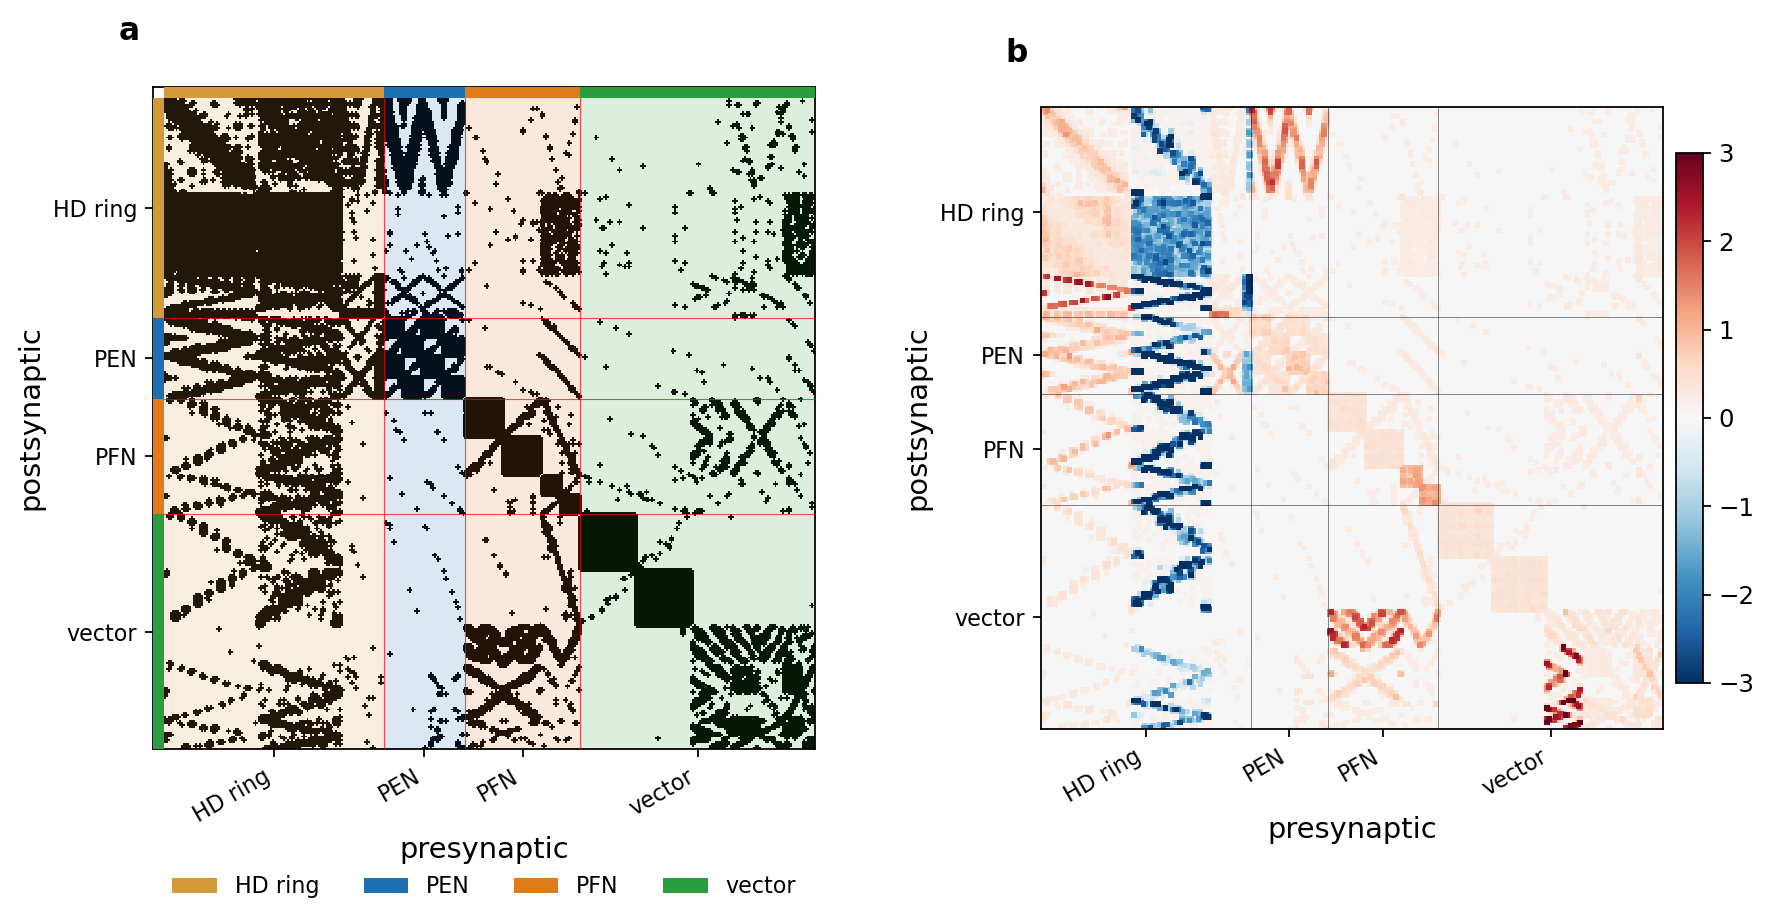
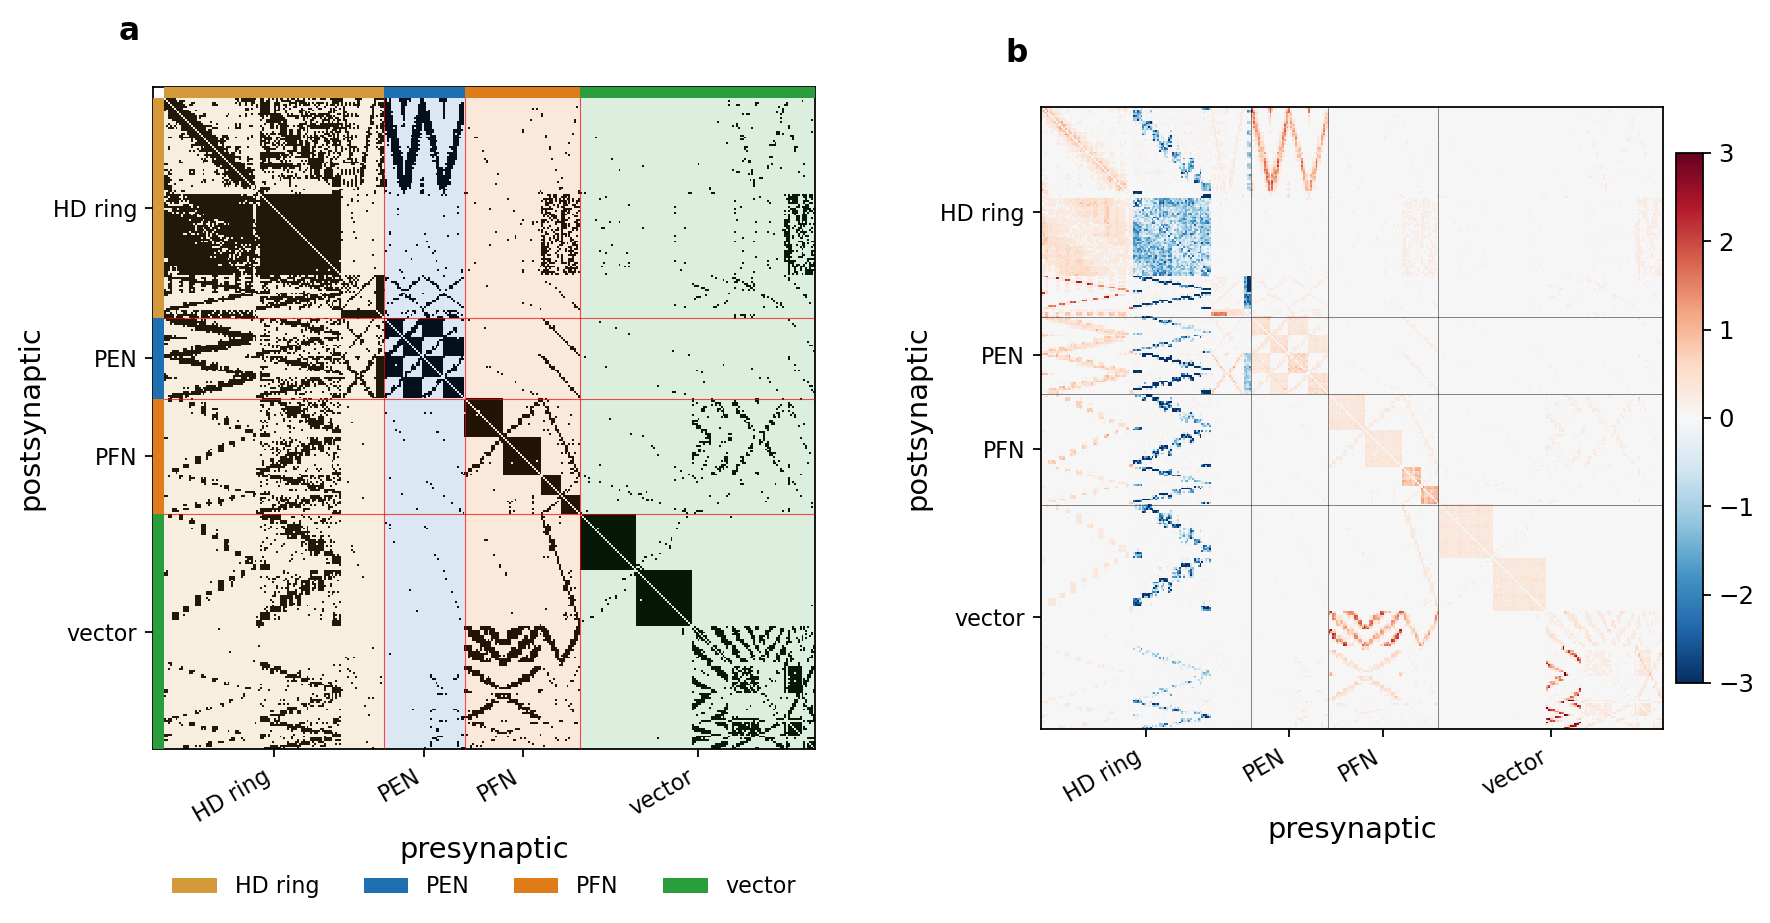
drosophila CX: proprioceptive sensory/efference angular gate (pen_propriocep)
Companion of the zebrafish pen_artr_ptipn1_propriocep experiment, with no new
connectome: the two existing PEN subtypes are the two angular ports.

- drosophila_cx_task_rnn / _gnn: add velocity_gate 'pen_propriocep' (sensory
  ω → PEN_a, efference ω_proprio → PEN_b, v_fwd → PFN, cue columns free) and
  'pen_propriocep_swap' (PEN_a/PEN_b roles reversed — the control). Both reuse
  the pen_pfn subpop/scalar setup and require drosophila_cx_338_v1.
- _TT_DIMS: on the proprioceptive gate the angular drive splits into two input
  columns, so ['rotation','translation'] derives n_input=5 (the 5-channel
  [ω, v_fwd, ω_proprio, cos0, sin0] layout) instead of 4 — mirrors the zebrafish
  propriocep handling. Without this the 5-ch stimulus errored at the gate.
- config: add 'pen_propriocep' / 'pen_propriocep_swap' to the velocity_gate
  Literal.

Also in this commit:
- plot_cx.plot_gnn_dashboard: fix panel e on the GNN dashboard (use
  data["net"], not an undefined `net`) so the EPG-ring phase-sorted kinograph
  renders for the fly instead of crashing the dashboard step.
- fig_connectome_summary: render each synapse as a square (box maximum_filter)
  instead of binary_dilation's 4-connected cross, and add a --dilate arg
  (default 0 = one pixel per synapse) so panels a/b match and the 338-cell
  matrix dots are not oversized; regenerated the figure.

diff --git a/src/connectome_gnn/models/drosophila_cx_task_rnn.py b/src/connectome_gnn/models/drosophila_cx_task_rnn.py
@@ -159,13 +159,28 @@ class DrosophilaCxTaskRNN(nn.Module):
         _RECOGNISED = ("rotation", "translation", "position_2d", "rotation_vfwd")
         _tt_raw = list(getattr(config.training, "task_targets", None) or [])
         _tt_key = tuple(t for t in _RECOGNISED if t in _tt_raw)
-        _TT_DIMS = {
-            ("rotation",):                (3, 2),
-            ("rotation_vfwd",):           (4, 2),
-            ("rotation", "translation"):  (4, 3),
-            ("position_2d",):             (4, 4),
-            ("translation",):             (1, 1),
-        }
+        # On the proprioceptive gate the angular drive is split into two
+        # independent input columns (sensory ω and efference ω_proprio), so the
+        # on-disk stimulus is the 5-channel [ω, v_fwd, ω_proprio, cos0, sin0]
+        # layout and any rotation-bearing task gains one extra input channel
+        # (mirrors the zebrafish pen_artr_ptipn1_propriocep gate).
+        _is_propriocep_split = str(getattr(gm, "velocity_gate", "none")).lower() \
+            in ("pen_propriocep", "pen_propriocep_swap")
+        if _is_propriocep_split:
+            _TT_DIMS = {
+                ("rotation",):                (4, 2),
+                ("translation",):             (2, 1),
+                ("rotation", "translation"):  (5, 3),
+                ("position_2d",):             (5, 4),
+            }
+        else:
+            _TT_DIMS = {
+                ("rotation",):                (3, 2),
+                ("rotation_vfwd",):           (4, 2),
+                ("rotation", "translation"):  (4, 3),
+                ("position_2d",):             (4, 4),
+                ("translation",):             (1, 1),
+            }
         _auto_in, _auto_out = _TT_DIMS.get(_tt_key, (3, 2))  # default = rotation
         self.n_input = int(getattr(gm, "n_input", 0)) or _auto_in
         self.n_output = int(getattr(gm, "n_output", 0)) or _auto_out
@@ -293,14 +308,18 @@ class DrosophilaCxTaskRNN(nn.Module):
             self.v_pena_r = nn.Parameter(torch.tensor(-0.01))
             self.v_penb_l = nn.Parameter(torch.tensor(0.01))
             self.v_penb_r = nn.Parameter(torch.tensor(-0.01))
-        elif self.velocity_gate == "pen_pfn":
-            # Drosophila path-integration gate (companion of the zebrafish
-            # ``pen_artr_ptipn1``): ω → PEN (PENa/PENb L/R) on input col 0,
-            # v_fwd → PFN (PFNd/PFNv L/R) on input col 1. Requires a circuit
-            # that publishes both pen_subpop_ix and pfn_subpop_ix (i.e.
-            # drosophila_cx_338_v1). With n_input==3 (rotation only) the PFN
-            # column is unused; with n_input>=4 ([ω, v_fwd, cosθ0, sinθ0])
-            # v_fwd is anatomically routed to the PFN afferents.
+        elif self.velocity_gate in ("pen_pfn", "pen_propriocep",
+                                    "pen_propriocep_swap"):
+            # pen_pfn — Drosophila path-integration gate (companion of the
+            #   zebrafish ``pen_artr_ptipn1``): ω → PEN (PENa/PENb L/R) on
+            #   input col 0, v_fwd → PFN (PFNd/PFNv L/R) on input col 1.
+            # pen_propriocep — sensory/efference angular split (companion of
+            #   the zebrafish ``pen_artr_ptipn1_propriocep``): on the
+            #   5-channel [ω, v_fwd, ω_proprio, cos0, sin0] layout, sensory
+            #   ω → PEN_a, efference ω_proprio → PEN_b, v_fwd → PFN.
+            #   pen_propriocep_swap reverses the PEN_a/PEN_b roles (control).
+            # All require a circuit that publishes both pen_subpop_ix and
+            # pfn_subpop_ix (i.e. drosophila_cx_338_v1).
             pen_subpop = cx.get("pen_subpop_ix", {})
             pfn_subpop = cx.get("pfn_subpop_ix", {})
             pen_req = ("PENa_L", "PENa_R", "PENb_L", "PENb_R")
@@ -309,9 +328,9 @@ class DrosophilaCxTaskRNN(nn.Module):
                 + [k for k in pfn_req if len(pfn_subpop.get(k, [])) == 0]
             if missing:
                 raise ValueError(
-                    f"velocity_gate='pen_pfn' requires non-empty pen_subpop_ix "
-                    f"{pen_req} and pfn_subpop_ix {pfn_req}; missing/empty: "
-                    f"{missing}. Use circuit drosophila_cx_338_v1."
+                    f"velocity_gate={self.velocity_gate!r} requires non-empty "
+                    f"pen_subpop_ix {pen_req} and pfn_subpop_ix {pfn_req}; "
+                    f"missing/empty: {missing}. Use circuit drosophila_cx_338_v1."
                 )
             for key in pen_req:
                 ind = torch.zeros(N, dtype=torch.float32)
@@ -332,7 +351,8 @@ class DrosophilaCxTaskRNN(nn.Module):
         elif self.velocity_gate != "none":
             raise ValueError(
                 f"graph_model.velocity_gate must be 'none', 'pen_only', "
-                f"'pen_4scalar', or 'pen_pfn', got {self.velocity_gate!r}"
+                f"'pen_4scalar', 'pen_pfn', 'pen_propriocep', or "
+                f"'pen_propriocep_swap', got {self.velocity_gate!r}"
             )
 
         # --- Dynamics constants -----------------------------------------
@@ -501,6 +521,38 @@ class DrosophilaCxTaskRNN(nn.Module):
                 else:
                     # [ω, cosθ0, sinθ0]: ω→PEN col 0 only (PFN unused).
                     W = torch.cat([v_col_pen.unsqueeze(1), W[:, 1:]], dim=1)
+            elif self.velocity_gate in ("pen_propriocep", "pen_propriocep_swap"):
+                # 5-channel propriocep layout [ω, v_fwd, ω_proprio, cos0, sin0]:
+                # sensory ω→PEN_a, efference ω_proprio→PEN_b (swapped for
+                # pen_propriocep_swap), v_fwd→PFN, cue columns (3:) free.
+                v_col_pena = (
+                    self._pen_ind_pena_l * self.v_pena_l
+                    + self._pen_ind_pena_r * self.v_pena_r
+                )
+                v_col_penb = (
+                    self._pen_ind_penb_l * self.v_penb_l
+                    + self._pen_ind_penb_r * self.v_penb_r
+                )
+                v_col_pfn = (
+                    self._pfn_ind_pfnd_l * self.v_pfnd_l
+                    + self._pfn_ind_pfnd_r * self.v_pfnd_r
+                    + self._pfn_ind_pfnv_l * self.v_pfnv_l
+                    + self._pfn_ind_pfnv_r * self.v_pfnv_r
+                )
+                if self.velocity_gate == "pen_propriocep_swap":
+                    v_col_sensory, v_col_efference = v_col_penb, v_col_pena
+                else:
+                    v_col_sensory, v_col_efference = v_col_pena, v_col_penb
+                if self.n_input < 5:
+                    raise ValueError(
+                        f"velocity_gate={self.velocity_gate!r} expects the "
+                        f"5-channel propriocep stimulus "
+                        f"[ω, v_fwd, ω_proprio, cos0, sin0]; got "
+                        f"n_input={self.n_input}."
+                    )
+                W = torch.cat(
+                    [v_col_sensory.unsqueeze(1), v_col_pfn.unsqueeze(1),
+                     v_col_efference.unsqueeze(1), W[:, 3:]], dim=1)
             else:
                 mask = getattr(self, "_W_in_mask", None)
                 if mask is not None:

diff --git a/src/connectome_gnn/models/drosophila_cx_task_gnn.py b/src/connectome_gnn/models/drosophila_cx_task_gnn.py
@@ -141,13 +141,27 @@ class DrosophilaCxTaskGNN(nn.Module):
         _RECOGNISED = ("rotation", "translation", "position_2d", "rotation_vfwd")
         _tt_raw = list(getattr(config.training, "task_targets", None) or [])
         _tt_key = tuple(t for t in _RECOGNISED if t in _tt_raw)
-        _TT_DIMS = {
-            ("rotation",):                (3, 2),
-            ("rotation_vfwd",):           (4, 2),
-            ("rotation", "translation"):  (4, 3),
-            ("position_2d",):             (4, 4),
-            ("translation",):             (1, 1),
-        }
+        # Proprioceptive gate splits the angular drive into sensory ω and
+        # efference ω_proprio, so the on-disk stimulus is the 5-channel
+        # [ω, v_fwd, ω_proprio, cos0, sin0] layout (mirrors the RNN + the
+        # zebrafish pen_artr_ptipn1_propriocep gate).
+        _is_propriocep_split = str(getattr(gm, "velocity_gate", "none")).lower() \
+            in ("pen_propriocep", "pen_propriocep_swap")
+        if _is_propriocep_split:
+            _TT_DIMS = {
+                ("rotation",):                (4, 2),
+                ("translation",):             (2, 1),
+                ("rotation", "translation"):  (5, 3),
+                ("position_2d",):             (5, 4),
+            }
+        else:
+            _TT_DIMS = {
+                ("rotation",):                (3, 2),
+                ("rotation_vfwd",):           (4, 2),
+                ("rotation", "translation"):  (4, 3),
+                ("position_2d",):             (4, 4),
+                ("translation",):             (1, 1),
+            }
         _auto_in, _auto_out = _TT_DIMS.get(_tt_key, (3, 2))
         self.n_input = int(getattr(gm, "n_input", 0)) or _auto_in
         self.n_output = int(getattr(gm, "n_output", 0)) or _auto_out
@@ -235,10 +249,16 @@ class DrosophilaCxTaskGNN(nn.Module):
             self.v_pena_r = nn.Parameter(torch.tensor(-0.01))
             self.v_penb_l = nn.Parameter(torch.tensor(0.01))
             self.v_penb_r = nn.Parameter(torch.tensor(-0.01))
-        elif self.velocity_gate == "pen_pfn":
-            # Path-integration gate (companion of zebrafish pen_artr_ptipn1):
-            # ω → PEN col 0, v_fwd → PFN col 1. Requires drosophila_cx_338_v1
-            # (publishes pfn_subpop_ix). PFN column unused when n_input==3.
+        elif self.velocity_gate in ("pen_pfn", "pen_propriocep",
+                                    "pen_propriocep_swap"):
+            # pen_pfn — path-integration gate (companion of zebrafish
+            #   pen_artr_ptipn1): ω → PEN col 0, v_fwd → PFN col 1.
+            # pen_propriocep — sensory/efference angular split (companion of
+            #   zebrafish pen_artr_ptipn1_propriocep): on the 5-channel
+            #   [ω, v_fwd, ω_proprio, cos0, sin0] layout, ω → PEN_a (sensory),
+            #   ω_proprio → PEN_b (efference), v_fwd → PFN. pen_propriocep_swap
+            #   reverses the PEN_a/PEN_b roles (the control). All require
+            #   drosophila_cx_338_v1 (publishes pen_subpop_ix + pfn_subpop_ix).
             pen_subpop = cx.get("pen_subpop_ix", {})
             pfn_subpop = cx.get("pfn_subpop_ix", {})
             pen_req = ("PENa_L", "PENa_R", "PENb_L", "PENb_R")
@@ -247,9 +267,9 @@ class DrosophilaCxTaskGNN(nn.Module):
                 + [k for k in pfn_req if len(pfn_subpop.get(k, [])) == 0]
             if missing:
                 raise ValueError(
-                    f"velocity_gate='pen_pfn' requires non-empty pen_subpop_ix "
-                    f"{pen_req} and pfn_subpop_ix {pfn_req}; missing/empty: "
-                    f"{missing}. Use circuit drosophila_cx_338_v1."
+                    f"velocity_gate={self.velocity_gate!r} requires non-empty "
+                    f"pen_subpop_ix {pen_req} and pfn_subpop_ix {pfn_req}; "
+                    f"missing/empty: {missing}. Use circuit drosophila_cx_338_v1."
                 )
             for key in pen_req:
                 ind = torch.zeros(N, dtype=torch.float32)
@@ -270,7 +290,8 @@ class DrosophilaCxTaskGNN(nn.Module):
         elif self.velocity_gate != "none":
             raise ValueError(
                 f"graph_model.velocity_gate must be 'none', 'pen_only', "
-                f"'pen_4scalar', or 'pen_pfn', got {self.velocity_gate!r}"
+                f"'pen_4scalar', 'pen_pfn', 'pen_propriocep', or "
+                f"'pen_propriocep_swap', got {self.velocity_gate!r}"
             )
 
         # --- Dynamics constants -----------------------------------------
@@ -545,6 +566,38 @@ class DrosophilaCxTaskGNN(nn.Module):
                          W[:, 2:]], dim=1)
                 else:
                     W = torch.cat([v_col_pen.unsqueeze(1), W[:, 1:]], dim=1)
+            elif self.velocity_gate in ("pen_propriocep", "pen_propriocep_swap"):
+                # 5-channel propriocep layout [ω, v_fwd, ω_proprio, cos0, sin0]:
+                # sensory ω → PEN_a, efference ω_proprio → PEN_b (swapped for
+                # pen_propriocep_swap), v_fwd → PFN, cue columns (3:) free.
+                v_col_pena = (
+                    self._pen_ind_pena_l * self.v_pena_l
+                    + self._pen_ind_pena_r * self.v_pena_r
+                )
+                v_col_penb = (
+                    self._pen_ind_penb_l * self.v_penb_l
+                    + self._pen_ind_penb_r * self.v_penb_r
+                )
+                v_col_pfn = (
+                    self._pfn_ind_pfnd_l * self.v_pfnd_l
+                    + self._pfn_ind_pfnd_r * self.v_pfnd_r
+                    + self._pfn_ind_pfnv_l * self.v_pfnv_l
+                    + self._pfn_ind_pfnv_r * self.v_pfnv_r
+                )
+                if self.velocity_gate == "pen_propriocep_swap":
+                    v_col_sensory, v_col_efference = v_col_penb, v_col_pena
+                else:
+                    v_col_sensory, v_col_efference = v_col_pena, v_col_penb
+                if self.n_input < 5:
+                    raise ValueError(
+                        f"velocity_gate={self.velocity_gate!r} expects the "
+                        f"5-channel propriocep stimulus "
+                        f"[ω, v_fwd, ω_proprio, cos0, sin0]; got "
+                        f"n_input={self.n_input}."
+                    )
+                W = torch.cat(
+                    [v_col_sensory.unsqueeze(1), v_col_pfn.unsqueeze(1),
+                     v_col_efference.unsqueeze(1), W[:, 3:]], dim=1)
             else:
                 mask = getattr(self, "_W_in_mask", None)
                 if mask is not None:

diff --git a/figures/drosophila_cx/fig_connectome_summary.py b/figures/drosophila_cx/fig_connectome_summary.py
@@ -149,12 +149,17 @@ def _partition_perm(partition):
 
 def _panel_mask(ax, W, partition, dilate_iter=1):
     """Support mask sorted by the functional partition, with colour strips."""
-    from scipy.ndimage import binary_dilation
+    from scipy.ndimage import maximum_filter
     perm = _partition_perm(partition)
     W_sorted = W[np.ix_(perm, perm)]
     part_sorted = partition[perm]
-    M = (W_sorted != 0)
-    Mvis = binary_dilation(M, iterations=dilate_iter).astype(np.float32)
+    M = (W_sorted != 0).astype(np.float32)
+    # Square (box) dilation so each synapse renders as the same blob as the
+    # signed panel (b). binary_dilation's default structuring element is a
+    # 4-connected cross, which drew every edge as a "+"; a size=(2k+1)
+    # maximum_filter matches panel b's max/min-filter blob exactly.
+    size = 2 * int(dilate_iter) + 1
+    Mvis = (maximum_filter(M, size=size) > 0).astype(np.float32)
     ax.imshow(Mvis, cmap="binary", vmin=0, vmax=1,
               interpolation="nearest", aspect="equal")
     _add_partition_strips(ax, part_sorted, alpha_overlay=0.16,
@@ -196,6 +201,9 @@ def main():
                    help="registry circuit name")
     p.add_argument("--output_root", default=None)
     p.add_argument("--out", default=os.path.join(here, "fig_connectome_summary.png"))
+    p.add_argument("--dilate", type=int, default=0,
+                   help="edge-blob dilation iterations for both panels "
+                        "(0 = one pixel per synapse; 1 = 3x3 blob).")
     args = p.parse_args()
 
     if args.output_root:
@@ -216,8 +224,8 @@ def main():
 
     fig, axes = plt.subplots(1, 2, figsize=(12.5, 6),
                              gridspec_kw={"wspace": 0.34})
-    _panel_mask(axes[0], W, partition)
-    _panel_W(axes[1], W, partition, show_cbar=True)
+    _panel_mask(axes[0], W, partition, dilate_iter=args.dilate)
+    _panel_W(axes[1], W, partition, dilate_iter=args.dilate, show_cbar=True)
 
     # Partition legend below the support-mask panel.
     handles = [Patch(facecolor=PARTITION_COLOR[k], edgecolor="none", label=k)

diff --git a/src/connectome_gnn/config.py b/src/connectome_gnn/config.py
@@ -612,7 +612,9 @@ class GraphModelConfig(BaseModel):
     velocity_gate: Literal["none", "pen_only", "pen_4scalar",
                            "pen_artr_ptipn1",
                            "pen_artr_ptipn1_propriocep",
-                           "pen_pfn"] = "none"
+                           "pen_pfn",
+                           "pen_propriocep",
+                           "pen_propriocep_swap"] = "none"
     # Sign-lock the bilateral velocity-gate scalars so the left port is ≤0 and
     # the right port is ≥0 (effective = ∓softplus(raw), magnitude free). This
     # forces the L/R afferents to be driven in antiphase — matching the

diff --git a/src/connectome_gnn/plot_cx.py b/src/connectome_gnn/plot_cx.py
@@ -3988,7 +3988,7 @@ def plot_gnn_dashboard(data, out_path):
         if _k in rollout:
             _theta = np.asarray(rollout[_k])
             break
-    _epg_idx = getattr(net, "epg_indices", None)
+    _epg_idx = getattr(data["net"], "epg_indices", None)
     if hd_part is not None and _theta is not None:
         # fish2 vocab: within-partition phase sort over all neurons.
         _panel_phase_sorted_kinograph(
